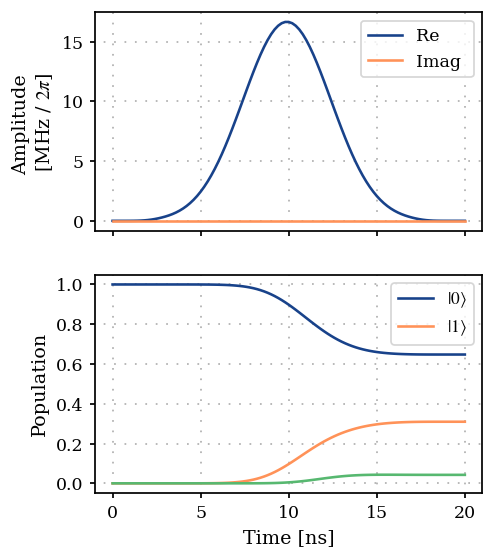
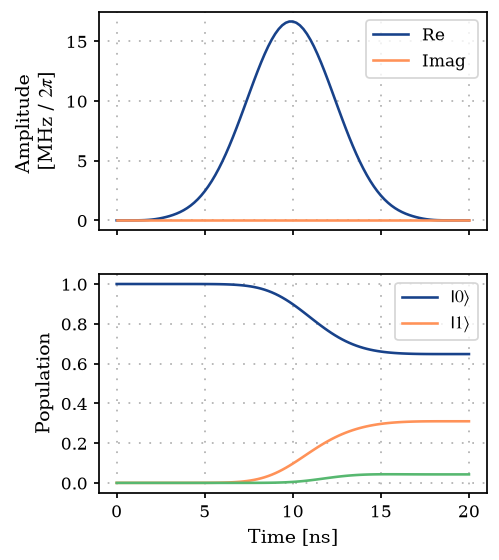
Increase GRAPE to order 3

diff --git a/tests/test_goat_over_grape.py b/tests/test_goat_over_grape.py
@@ -119,6 +119,7 @@ def prop(model, propagation):
         eom_gradient_func=model.get_gradient,
         target_state=target,
         operator_sandwich_function=grape_operator_sandwich_function_closed,
+        order=3,
     )
     return prop
 

diff --git a/tests/test_dcrab_optim.py b/tests/test_dcrab_optim.py
@@ -73,6 +73,7 @@ def prop(model, propagation):
         eom_gradient_func=model.get_gradient,
         target_state=target,
         operator_sandwich_function=grape_operator_sandwich_function_closed,
+        order=3,
     )
     return prop
 

diff --git a/docs/notebooks/02E_GOAToverGRAPE_dCRAB.rst b/docs/notebooks/02E_GOAToverGRAPE_dCRAB.rst
@@ -110,6 +110,7 @@ of the time grid used for discretization. In this case
         eom_gradient_func=model.get_gradient,
         target_state=target,
         operator_sandwich_function=grape_operator_sandwich_function_closed,
+        order=3
     )
     
     zeroone = StateTransferFidelityGRAPE(
@@ -236,7 +237,7 @@ coefficients for the optimization.
 
 .. parsed-literal::
 
-    Iteration number = 10 	  Infidelity  = 2.525e-03
+    Iteration number = 10 	  Infidelity  = 2.753e-03
 
 
 .. parsed-literal::
@@ -245,53 +246,18 @@ coefficients for the optimization.
     
     ==== Decrease in infidelity less than 1e-09 ====
     ==== Starting super-iteration 1 ====
-    * Current lowest infidelity =  2.530e-11
+    * Current lowest infidelity =  2.071e-11
     * Current no. of parameters = 25
 
 
 .. parsed-literal::
 
-    Iteration number = 20 	  Infidelity  = 4.854e-02
+    Iteration number = 20 	  Infidelity  = 4.878e-02
 
 
 .. parsed-literal::
 
-    Iteration number = 30 	  Infidelity  = 2.855e-05
-
-
-.. parsed-literal::
-
-    
-    
-    ==== Decrease in infidelity less than 1e-09 ====
-    ==== Starting super-iteration 2 ====
-    * Current lowest infidelity =  2.530e-11
-    * Current no. of parameters = 37
-
-
-.. parsed-literal::
-
-    Iteration number = 40 	  Infidelity  = 1.903e-03
-
-
-.. parsed-literal::
-
-    
-    
-    ==== Decrease in infidelity less than 1e-09 ====
-    ==== Starting super-iteration 3 ====
-    * Current lowest infidelity =  2.530e-11
-    * Current no. of parameters = 49
-
-
-.. parsed-literal::
-
-    Iteration number = 50 	  Infidelity  = 6.801e-02
-
-
-.. parsed-literal::
-
-    Iteration number = 60 	  Infidelity  = 1.085e-05
+    Iteration number = 30 	  Infidelity  = 2.294e-05
 
 
 .. parsed-literal::
@@ -308,7 +274,7 @@ coefficients for the optimization.
 
 .. parsed-literal::
 
-    {'status': 1, 'value': 2.5302426820417168e-11, 'iterations': 45, 'message': 'CONVERGENCE: RELATIVE REDUCTION OF F <= FACTR*EPSMCH'}
+    {'status': 1, 'value': 2.071320892582662e-11, 'iterations': 33, 'message': 'CONVERGENCE: RELATIVE REDUCTION OF F <= FACTR*EPSMCH'}
 
 
 
@@ -362,19 +328,20 @@ fidelity.
 References
 ----------
 
-- **(Khaneja et al., 2005)** N. Khaneja et al., “Optimal control of
-  coupled spin dynamics: design of NMR pulse sequences by gradient
-  ascent algorithms,” *Journal of Magnetic Resonance* **172**, 296–305
-  (2005).
-- **(Machnes et al., 2018)** S. Machnes et al., “Tunable, flexible, and
-  efficient optimization of control pulses for practical qubits,”
-  *Physical Review Letters* **120**, 150401 (2018).
-- **(Sørensen et al., 2018)** J. J. W. H. Sørensen et al., “Quantum
-  optimal control in a chopped basis: Applications in control of
-  Bose-Einstein condensates,” *Physical Review A* **98**, 022119 (2018).
-- **(Rach et al., 2015)** N. Rach et al., “Dressing the
-  chopped-random-basis optimization: A bandwidth-limited access to the
-  trap-free landscape,” *Physical Review A* **92**, 062343 (2015).
-- **(Müller et al., 2022)** M. M. Müller et al., “One decade of quantum
-  optimal control in the chopped random basis,” *Reports on Progress in
-  Physics* **85**, 076001 (2022).
+-  **(Khaneja et al., 2005)** N. Khaneja et al., “Optimal control of
+   coupled spin dynamics: design of NMR pulse sequences by gradient
+   ascent algorithms,” *Journal of Magnetic Resonance* **172**, 296–305
+   (2005).
+-  **(Machnes et al., 2018)** S. Machnes et al., “Tunable, flexible, and
+   efficient optimization of control pulses for practical qubits,”
+   *Physical Review Letters* **120**, 150401 (2018).
+-  **(Sørensen et al., 2018)** J. J. W. H. Sørensen et al., “Quantum
+   optimal control in a chopped basis: Applications in control of
+   Bose-Einstein condensates,” *Physical Review A* **98**, 022119
+   (2018).
+-  **(Rach et al., 2015)** N. Rach et al., “Dressing the
+   chopped-random-basis optimization: A bandwidth-limited access to the
+   trap-free landscape,” *Physical Review A* **92**, 062343 (2015).
+-  **(Müller et al., 2022)** M. M. Müller et al., “One decade of quantum
+   optimal control in the chopped random basis,” *Reports on Progress in
+   Physics* **85**, 076001 (2022).

diff --git a/docs/notebooks/04A_GRAPE_TLS.rst b/docs/notebooks/04A_GRAPE_TLS.rst
@@ -88,6 +88,7 @@ As a simple toy model, we use a single spin.
         eom_gradient_func=model.get_gradient,
         target_state=target,
         operator_sandwich_function=grape_operator_sandwich_function_closed,
+        order=3
     )
     
     times = np.array([0.0, t_final])
@@ -159,7 +160,7 @@ from a ``PWCGenerator`` using ``gen.tlist``.
 
 .. parsed-literal::
 
-    {'status': 1, 'value': 1.2907700330799798e-07, 'iterations': 22, 'message': 'CONVERGENCE: RELATIVE REDUCTION OF F <= FACTR*EPSMCH'}
+    {'status': 1, 'value': 3.647304680498564e-11, 'iterations': 20, 'message': 'CONVERGENCE: RELATIVE REDUCTION OF F <= FACTR*EPSMCH'}
 
 
 
@@ -259,6 +260,7 @@ Let’s test GRAPE with ODE propagation
         target_state=target,
         operator_sandwich_function=grape_operator_sandwich_function_open,
         reverse_step_function=reverse_lindblad_step,
+        order=3
     )
     
     zeroone = StateTransferFidelityGRAPE(
@@ -326,23 +328,17 @@ Let’s test GRAPE with ODE propagation
 .. code:: ipython3
 
     opt_grad = ScipyOptimizerGradient(measure_and_gradient_func=zeroone.get_value_and_gradient, optimization_map=optmap)
-    opt_grad.set_options({"disp": True})
 
 .. code:: ipython3
 
     opt_grad.optimize(tlist)
 
 
-.. parsed-literal::
-
-    scipy.optimize: The `disp` and `iprint` options of the L-BFGS-B solver are deprecated and will be removed in SciPy 1.18.0.
-
-
 
 
 .. parsed-literal::
 
-    {'status': 1, 'value': 0.006379207131413489, 'iterations': 26, 'message': 'CONVERGENCE: RELATIVE REDUCTION OF F <= FACTR*EPSMCH'}
+    {'status': 2, 'value': 0.005283974963344429, 'iterations': 54, 'message': 'ABNORMAL: '}
 
 
 
@@ -373,14 +369,14 @@ Let’s test GRAPE with ODE propagation
 
 .. parsed-literal::
 
-    Array(0.99364055, dtype=float64)
+    Array(0.99471603, dtype=float64)
 
 
 
 References
 ----------
 
-- **(Khaneja et al., 2005)** N. Khaneja et al., “Optimal control of
-  coupled spin dynamics: design of NMR pulse sequences by gradient
-  ascent algorithms,” *Journal of Magnetic Resonance* **172**, 296–305
-  (2005).
+-  **(Khaneja et al., 2005)** N. Khaneja et al., “Optimal control of
+   coupled spin dynamics: design of NMR pulse sequences by gradient
+   ascent algorithms,” *Journal of Magnetic Resonance* **172**, 296–305
+   (2005).

diff --git a/docs/notebooks/04C_Single_qubit_gate_GOAToverGRAPE.rst b/docs/notebooks/04C_Single_qubit_gate_GOAToverGRAPE.rst
@@ -145,6 +145,7 @@ The Hamiltonian in the rotating frame of the drive is given by -
         eom_gradient_func=model.get_gradient,
         target_state=target,
         operator_sandwich_function=grape_operator_sandwich_function_closed,
+        order=3
     )
     
     zeroone = StateTransferFidelityGRAPE(
@@ -250,19 +251,19 @@ Optimization
 
 .. parsed-literal::
 
-    Iteration   10 | Infid = 2.656649e-03
+    Iteration   10 | Infid = 2.870565e-03
 
 
 .. parsed-literal::
 
-    Iteration   20 | Infid = 2.636966e-03
+    Iteration   20 | Infid = 2.643414e-03
 
 
 
 
 .. parsed-literal::
 
-    {'status': 1, 'value': 0.002594563362441238, 'iterations': 70, 'message': 'CONVERGENCE: RELATIVE REDUCTION OF F <= FACTR*EPSMCH'}
+    {'status': 1, 'value': 0.002643413828831709, 'iterations': 48, 'message': 'CONVERGENCE: RELATIVE REDUCTION OF F <= FACTR*EPSMCH'}
 
 
 
@@ -287,13 +288,14 @@ Optimization
 References
 ----------
 
-- **(Khaneja et al., 2005)** N. Khaneja et al., “Optimal control of
-  coupled spin dynamics: design of NMR pulse sequences by gradient
-  ascent algorithms,” *Journal of Magnetic Resonance* **172**, 296–305
-  (2005).
-- **(Machnes et al., 2018)** S. Machnes et al., “Tunable, flexible, and
-  efficient optimization of control pulses for practical qubits,”
-  *Physical Review Letters* **120**, 150401 (2018).
-- **(Sørensen et al., 2018)** J. J. W. H. Sørensen et al., “Quantum
-  optimal control in a chopped basis: Applications in control of
-  Bose-Einstein condensates,” *Physical Review A* **98**, 022119 (2018).
+-  **(Khaneja et al., 2005)** N. Khaneja et al., “Optimal control of
+   coupled spin dynamics: design of NMR pulse sequences by gradient
+   ascent algorithms,” *Journal of Magnetic Resonance* **172**, 296–305
+   (2005).
+-  **(Machnes et al., 2018)** S. Machnes et al., “Tunable, flexible, and
+   efficient optimization of control pulses for practical qubits,”
+   *Physical Review Letters* **120**, 150401 (2018).
+-  **(Sørensen et al., 2018)** J. J. W. H. Sørensen et al., “Quantum
+   optimal control in a chopped basis: Applications in control of
+   Bose-Einstein condensates,” *Physical Review A* **98**, 022119
+   (2018).

diff --git a/docs/notebooks/02D_GOAToverGRAPE_TLS.rst b/docs/notebooks/02D_GOAToverGRAPE_TLS.rst
@@ -124,6 +124,7 @@ Using GRAPE as the method to propagate and compute the gradients
         eom_gradient_func=model.get_gradient,
         target_state=target,
         operator_sandwich_function=grape_operator_sandwich_function_closed,
+        order=3
     )
     
     zeroone = StateTransferFidelityGRAPE(
@@ -195,7 +196,7 @@ the GRAPE gradients to compute the gradient wrt the tone parameters
 
 .. parsed-literal::
 
-    {'status': 1, 'value': 1.4224774691484754e-09, 'iterations': 5, 'message': 'CONVERGENCE: NORM OF PROJECTED GRADIENT <= PGTOL'}
+    {'status': 1, 'value': 3.022595507218284e-10, 'iterations': 11, 'message': 'CONVERGENCE: RELATIVE REDUCTION OF F <= FACTR*EPSMCH'}
 
 
 
@@ -223,13 +224,14 @@ iterations.
 References
 ----------
 
-- **(Khaneja et al., 2005)** N. Khaneja et al., “Optimal control of
-  coupled spin dynamics: design of NMR pulse sequences by gradient
-  ascent algorithms,” *Journal of Magnetic Resonance* **172**, 296–305
-  (2005).
-- **(Machnes et al., 2018)** S. Machnes et al., “Tunable, flexible, and
-  efficient optimization of control pulses for practical qubits,”
-  *Physical Review Letters* **120**, 150401 (2018).
-- **(Sørensen et al., 2018)** J. J. W. H. Sørensen et al., “Quantum
-  optimal control in a chopped basis: Applications in control of
-  Bose-Einstein condensates,” *Physical Review A* **98**, 022119 (2018).
+-  **(Khaneja et al., 2005)** N. Khaneja et al., “Optimal control of
+   coupled spin dynamics: design of NMR pulse sequences by gradient
+   ascent algorithms,” *Journal of Magnetic Resonance* **172**, 296–305
+   (2005).
+-  **(Machnes et al., 2018)** S. Machnes et al., “Tunable, flexible, and
+   efficient optimization of control pulses for practical qubits,”
+   *Physical Review Letters* **120**, 150401 (2018).
+-  **(Sørensen et al., 2018)** J. J. W. H. Sørensen et al., “Quantum
+   optimal control in a chopped basis: Applications in control of
+   Bose-Einstein condensates,” *Physical Review A* **98**, 022119
+   (2018).

diff --git a/docs/notebooks/04B_Single_qubit_gate_GRAPE.rst b/docs/notebooks/04B_Single_qubit_gate_GRAPE.rst
@@ -104,14 +104,12 @@ The Hamiltonian in the rotating frame of the drive is given by -
     times = np.array([0.0, t_final])
     
     propagation = Expm(eom_func=model.get_value, resolution=1e9, initial_state=init)
-    # ``order`` sets how far the derivative of the piece propagator is expanded. The default of 2 is
-    # an order of magnitude more accurate than the textbook first order GRAPE of ``order=1``.
     prop = GRAPE(
         propagation,
         eom_gradient_func=model.get_gradient,
         target_state=target,
         operator_sandwich_function=grape_operator_sandwich_function_closed,
-        order=2,
+        order=3,
     )
     
     zeroone = StateTransferFidelityGRAPE(
@@ -180,14 +178,14 @@ frequency, as in the state transfer example.
 
 .. parsed-literal::
 
-    Iteration   10 | Infid = 9.282243e-09
+    Iteration   10 | Infid = 1.640602e-08
 
 
 
 
 .. parsed-literal::
 
-    {'status': 1, 'value': 7.815716962511488e-10, 'iterations': 14, 'message': 'CONVERGENCE: NORM OF PROJECTED GRADIENT <= PGTOL'}
+    {'status': 1, 'value': 1.538807525847119e-09, 'iterations': 14, 'message': 'CONVERGENCE: NORM OF PROJECTED GRADIENT <= PGTOL'}
 
 
 
@@ -212,7 +210,7 @@ frequency, as in the state transfer example.
 References
 ----------
 
-- **(Khaneja et al., 2005)** N. Khaneja et al., “Optimal control of
-  coupled spin dynamics: design of NMR pulse sequences by gradient
-  ascent algorithms,” *Journal of Magnetic Resonance* **172**, 296–305
-  (2005).
+-  **(Khaneja et al., 2005)** N. Khaneja et al., “Optimal control of
+   coupled spin dynamics: design of NMR pulse sequences by gradient
+   ascent algorithms,” *Journal of Magnetic Resonance* **172**, 296–305
+   (2005).
